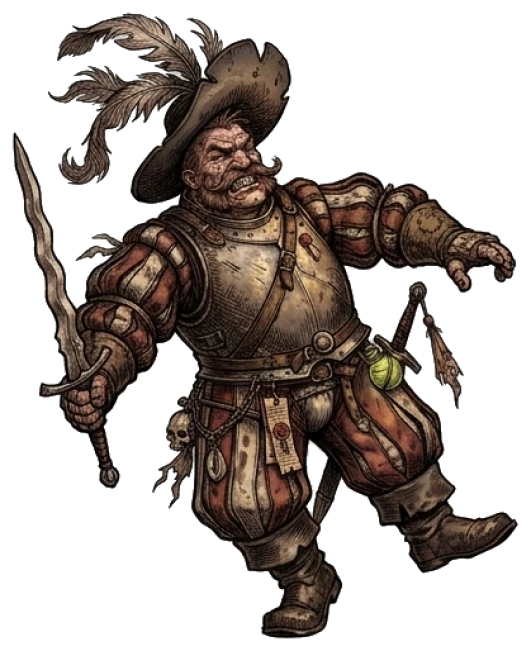
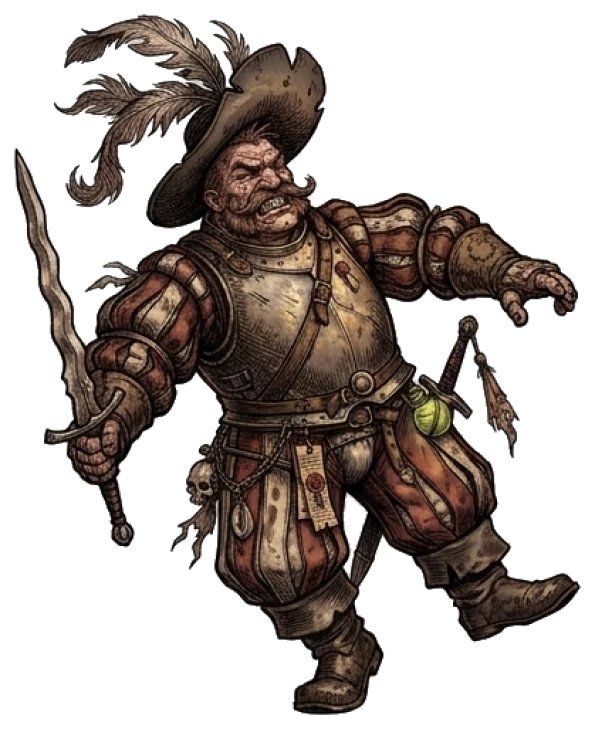
feat(poses_b_piloto): warrior_hit +12% por cabeza, mediciones con measure_head.js, notas r3 ronda 2

Changed region(s): [[0.1507, 0.0922, 0.1808, 0.1229]]

diff --git a/art-b/poses_piloto/measure_head.js b/art-b/poses_piloto/measure_head.js
@@ -1,0 +1,15 @@
+// Cabeza = coronilla (sombrero) -> línea de hombros, sobre la máscara alfa abierta con R=26 (quita hoja/plumas/cuchillas finas).
+// Hombros = 1ª fila (tras top+60) cuyo ancho >= 0.75 x mediana del ancho entre 30-55 % del alto. Uso: node measure_head.js <webp>...
+const sharp=require('sharp');
+(async()=>{const r=Number(process.env.R)||26;for(const f of process.argv.slice(2)){
+const {data,info}=await sharp(f).ensureAlpha().raw().toBuffer({resolveWithObject:true});const W=info.width,H=info.height;
+const m=new Uint8Array(W*H);for(let i=0;i<W*H;i++)m[i]=data[i*4+3]>128?1:0;
+const box=(src,mn)=>{const t=new Uint8Array(W*H),o=new Uint8Array(W*H);
+for(let y=0;y<H;y++)for(let x=0;x<W;x++){let v=mn?1:0;for(let k=Math.max(0,x-r);k<=Math.min(W-1,x+r);k++)v=mn?v&src[y*W+k]:v|src[y*W+k];t[y*W+x]=v;}
+for(let y=0;y<H;y++)for(let x=0;x<W;x++){let v=mn?1:0;for(let k=Math.max(0,y-r);k<=Math.min(H-1,y+r);k++)v=mn?v&t[k*W+x]:v|t[k*W+x];o[y*W+x]=v;}return o;};
+const op=box(box(m,true),false);const w=[];for(let y=0;y<H;y++){let c=0;for(let x=0;x<W;x++)c+=op[y*W+x];w.push(c);}
+const top=w.findIndex(c=>c>0);let bot=H-1;while(w[bot]===0)bot--;const h=bot-top+1;
+const band=w.slice(top+Math.floor(.3*h),top+Math.floor(.55*h)).sort((a,b)=>a-b);const torso=band[band.length>>1];
+let sh=-1;for(let y=top+60;y<=bot;y++)if(w[y]>=0.75*torso){sh=y-top;break;}
+let nk=-1,mn=1e9;for(let y=top+30;y<top+sh;y++)if(w[y]<mn){mn=w[y];nk=y-top;}
+console.log(JSON.stringify({f:f.split('/').pop(),top,h,headToShoulder:sh,headToNeckMin:nk,neckW:mn,torso}));}})();

diff --git a/specs/poses_b_piloto/NOTAS.md b/specs/poses_b_piloto/NOTAS.md
@@ -81,7 +81,7 @@ fluidez en el combate B **sin animación cuadro a cuadro**. Decide el owner si s
 ## r3 — veredicto p-kh (t_e75d1b5b) y reproceso de escala del warrior
 - **APROBADO**: `bruto_ko` r3 (rodillas, apoyado en una mano, cuchilla en el suelo, más bajo y ancho que el idle, babas claras, sin sangre). Commit 050db26. Sin regenerar: **generaciones finales 6 de 8** (quedan 2 de reserva).
 - Aceptado por p-kh: cuernos espirales (se lee colapso con la cabeza caída), ojos claros con pupila mínima, boca rosado apagado (0 px rojo saturado), escala 744×553 sin ajuste.
-- **Reproceso gratis del warrior** (hit/skill/victory se veían ~25 % más chicos que idle/attack): mismos crudos (`raw/warrior_poses.png`), solo `--scale 0.935 → 1.267` (×1,355) en `process.sh`. Misma escala en toda la hoja ⇒ el KO arrodillado iguala la cabeza del resto (no la altura total). Medido con `art-b/poses_piloto/measure.js` (máscara alfa abierta r=16, altura sombrero→pies, ignora hoja/plumas finas): idle 584 · hit 588 · skill 609 · victory 593 (antes, con r=8: idle 612 vs 460/452/443); ancho de torso (mediana 30–55 % de la altura) idle 378 · hit 313 · skill 303 (attack 281 ya era más angosto que idle: es de la pose). Ancho de cabeza (22 % superior) idle 247 · hit 138 · ko 149. **Dudoso**: sin visión; la cabeza se aproxima por altura y escala común de hoja, no se segmenta. Las poses se amplían ×1,27 desde el crudo (algo más blandas).
+- **Reproceso gratis del warrior** (hit/skill/victory se veían ~25 % más chicos que idle/attack): mismos crudos (`raw/warrior_poses.png`), sin generar. Primera pasada (b734f80): `--scale 0.935 → 1.267` (×1,355) igualando la altura bbox; el reviewer la rechazó (p-kh pidió **cabeza**, no bbox). Corrección en «r3 — ronda 2 de review» (más abajo), que sustituye las cifras de bbox de esta viñeta.
 - Alfa: `verify_alpha_b.js` 4/4 OK (esquinas 0, borde 100 % transparente, 1 componente). Evidencia regrabada: `contact_poses.webp` y `despues.webm` (13,5 s, 58 fps, 0 errores). Suites cliente 34 archivos / 625 tests OK; `npm run build` OK.
 
 ## Lecciones p-kh para extender al elenco
@@ -90,3 +90,24 @@ fluidez en el combate B **sin animación cuadro a cuadro**. Decide el owner si s
 - **KO** con «no blood, no red liquid, no gore» explícito y silueta más baja/ancha que el idle (arrodillado / apoyado en una mano), arma caída en el suelo.
 - **Normalizar escala por cabeza** al procesar (misma escala por hoja; ajustar con `measure.js`), no por bbox.
 - Presupuesto: ~1 regeneración cada 6 poses.
+
+## r3 — ronda 2 de review: escala por cabeza (reproceso gratis, sin generar; 6 de 8)
+- Herramienta nueva: `art-b/poses_piloto/measure_head.js` (máscara alfa abierta con R=26: quita hoja, plumas y cuchillas finas). Cabeza = coronilla del sombrero → línea de hombros (1ª fila con ancho ≥ 0,75 × mediana del torso). Altura = coronilla (R=26) → pies (R=16). Sin visión: es geometría, no segmentación semántica.
+- Mediciones (px; idle = referencia: cabeza 146, altura 578, torso 376):
+
+| pose | cabeza→hombros | altura coronilla→pies | torso (mediana 30–55 %) |
+|---|---|---|---|
+| idle | 146 | 578 | 376 |
+| attack (aprobada) | 132 | ≈ 570 | 255 |
+| hit (b734f80, ×1,267) | 130 (0,89×) | 579 | 298 (0,79×) |
+| **hit (ahora, ×1,419 = +12 %)** | **153 (1,05×)** | ≈ 648 | 333 (0,89×) |
+| skill (×1,267) | **no separable** | 599 (1,04×) | 272 (0,72×) |
+| victory (×1,267) | **no separable** | 565 (0,98×) | 259 (0,69×) |
+| ko (×1,267, arrodillado) | ≈ 150 por perfil de filas (≈ 1,0×); el detector automático no fija el cuello (cabeza gacha) | 429 (a propósito más bajo) | 287 |
+
+- **hit**: era el único con cabeza y torso claramente chicos (0,89× / 0,79×) pese a igualar altura → escala +12 % (`process.sh`: `--scale 1.419`); tras el cambio cabeza 1,05× y torso 0,89×, altura ≈ 648 (el retroceso inclina la figura; más escala la haría más alta que el idle sin ganar cabeza).
+- **skill / victory**: la cabeza **no se puede aislar por geometría** (el brazo alzado y la empuñadura se funden con el sombrero en la máscara; el detector cae en 67–68 px, que no es una cabeza). Se mantienen en ×1,267: altura 1,04× / 0,98× del idle (±5 %). El torso 0,72× / 0,69× **es de la pose** (brazo alzado y cuerpo de tres cuartos; attack, ya aprobada, tiene torso 0,68×), no de la escala: igualarlo exigiría ×1,4 y agigantaría la cabeza. **Pendiente de ojo humano** (p-kh) en skill/victory.
+- **ko**: cabeza ≈ idle (±3 %, perfil de filas: coronilla→hombros ≈ 148–152 px vs 152) con el mismo ×1,267 de la hoja; la altura total es menor a propósito (428 vs 578). Sin cambio.
+- Alfa (`verify_alpha_b.js`): hit/skill/ko/victory OK (esquinas 0, borde 100 % transparente, 1 componente); bruto_ko: esquinas 0, 2 componentes (cuchilla caída a propósito).
+- Evidencia regenerada: `contact_poses.webp`, `despues.webm` (13,5 s, 58 fps, 0 errores). Suites cliente 34 archivos / 625 tests OK; `npm run build` OK.
+- Higiene: el vite huérfano pid 20060 sigue escuchando en [::1]:5174; el cierre sin forzar falla («solo se puede terminar de forma forzada») y el kill forzado está bloqueado en esta sesión → frenarlo a mano. No se lanzó ningún vite nuevo (la grabación usó ese mismo servidor, que sirve este worktree).
